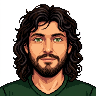
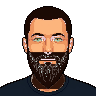
art(ch4,ch5): regenera busts — ch4 pelo corto castaño (iter6), ch5 buzz cut + barba larga (iter18)
Rafael: ch4 pelo más corto; ch5 barba más larga + pelo muy corto, basado en ch3.

ch4 (iter5→iter6): pelo corto castaño oscuro (antes gris/largo = drift; "no el
color de ch2"), barba corta. forge_sprite estilo ch3 + foto 2016, downscale LANCZOS
a 96, flood-fill bg blanco semi-transparente → transparente, de-fringe halo.

ch5 (iter15→iter18): buzz cut denso castaño oscuro + barba larga oscura, navy.
Cadena: iter16 (bg navy opaco, rechazada) → iter17 (gris/calvo, rechazada) →
iter18 (lava+floodfill transparente, pelo oscuro forzado) + post-proceso PIL para
matar artefactos cyan semi-transparentes del flood-fill.

Colores pixel-validados vs ch3: pelo castaño oscuro (#1A0E0A/#1B0A04, cero gris),
piel peach (#F9AA6D/#FCB57D), ojos sage, ch5 ropa navy #151F2D. Ambos transparentes,
render OK en app (StickyAvatar). Versiones previas en old/ + CHANGELOG §6.5. 418/418.

diff --git a/public/assets/old/CHANGELOG.md b/public/assets/old/CHANGELOG.md
@@ -16,6 +16,24 @@ Formato per entry:
 
 ---
 
+## ch5-bust.png — iter17 → iter18 (2026-06-01)
+
+- **Versión guardada:** `old/ch5-bust-2026-06-01-iter17-grey-hair.png`
+- **Razón del cambio:** iter17 salió con pelo gris/plateado, entradas/calvicie, barba sal-y-pimienta (gris en mejillas). Rafael exige pelo castaño MUY OSCURO #251109 denso sin canas, barba oscura sólida sin grises. Transparencia de esquinas superiores funcionó bien con método lava + BFS.
+- **Qué se intentará diferente:** Mismo background:"lava" + BFS flood-fill. Prompt reforzado con "NOT grey, NOT balding, NOT salt-and-pepper, ZERO grey pixels, solid dark brown #251109 hair and beard", referencias ch3-bust.png, énfasis en pelo denso/línea baja/joven.
+- **Commit hash post-regen:** `<pendiente>`
+
+---
+
+## ch5-bust.png — iter16 → iter17 (2026-06-01)
+
+- **Versión guardada:** `old/ch5-bust-2026-06-01-iter16.png`
+- **Razón del cambio:** iter16 (Adobe `image_remove_background` semántico) falló: BL y BR esquinas alpha=255 con color navy — el fondo navy y la camisa navy son indistinguibles para el ML de Adobe. Las 2 esquinas inferiores quedaron opacas (fondo no borrado).
+- **Qué se intentará diferente:** `forge_sprite` con `background: "lava"` (alto contraste rojo/naranja vs navy #141C2A) para que el bg removal nativo de pixelforge separe correctamente la camisa del fondo. Mismo sujeto: buzz cut uniforme, barba más larga, piel #FBB782, pelo/barba #251109, ojos sage #1B2715, camisa navy #141C2A.
+- **Commit hash post-regen:** `<pendiente>`
+
+---
+
 ## ch4-bg.png — iter2 → REPLACED por parallax 4 capas iter3 (2026-06-01)
 
 El bg único full-bleed (iter2) se reemplaza por un parallax de 4 capas "flotando en el vacío" (concepto de Rafael): personaje de espaldas con gafas VR mirando a un portal con mundo 3D, símbolos matrix neón flotantes, profundidad por puntero + drift.
@@ -511,3 +529,21 @@ Aplica colectivamente a los 4 assets parallax originales de ch4 (Plan 04-04 W2).
 - **Razón del cambio:** Rafael 2026-05-28: ch3 ahora es "La muerte de Flash" y debe tener el estilo del fondo de batalla épico de ch2 (Warcraft). iter1 era fantasía pastel clara (cielo aurora + montañas + camino con estandartes) — bonito pero no matchea el tema muerte-de-Flash ni el drama de ch2.
 - **Qué se intentará diferente:** mood "secuela con amanecer HTML5" — campo de batalla DESPUÉS de la guerra: cielo crepuscular humo/brasas que abre a un amanecer HTML5 dorado/cyan en el horizonte; cresta con fortaleza en ruinas humeante; primer plano de tierra quemada con armas/estandartes caídos y escombros. Estilo comic pixel dramático (matchea ch2-flash-war). Emblemas re-tematizados al arco muerte→renacer (Flash caído → reconstrucción → estandarte → orbe → HTML5 naciente). Título "De vuelta al movimiento" → "La muerte de Flash".
 - **Commit hash post-regen:** `9c92672`
+
+## ch4-bust.png — iter5 → iter6 (2026-06-01)
+
+- **Versión guardada:** `old/ch4-bust-2026-06-01-iter5-grey-long.png` (14,439 bytes)
+- **Razón del cambio:** Rafael: "ch4 con pelo más corto". Además el pelo estaba gris/canoso (drift) y largo/desordenado — no matchea la realidad (foto 2016: castaño oscuro corto). Rafael aclaró "no el color de ch2" (ch2 también es gris) → corregir a castaño.
+- **Qué se intentará diferente:** Regenerar con forge_sprite estilo ch3. Pelo CORTO castaño muy oscuro (#251109, sombra #0E0100, SIN gris/canas), barba corta recortada. Colores hard-target de ch3: piel #FBB782, ojos sage #1B2715, ropa navy #141C2A. Referencia multimodal: foto 2016 + ch3-bust.png. Validación pixel-sample vs ch3 obligatoria + HSL zonal si drift.
+- **Commit hash del cambio:** `aaf4b30`
+
+## ch5-bust.png — iter15 → iter16 (2026-06-01)
+
+- **Versión guardada:** `old/ch5-bust-2026-06-01-iter15-green-shirt.png` (14,631 bytes)
+- **Razón del cambio:** Rafael: "ch5 con barba más larga y pelo muy corto, basarse en ch3". Actual tiene pelo largo rizado + camisa verde.
+- **Qué se intentó diferente:** Regenerar con forge_sprite estilo ch3. Pelo MUY CORTO parejo (buzz uniforme, SIN cresta/mohawk), barba MÁS LARGA. Colores hard-target de ch3: pelo #251109/#0E0100, piel #FBB782, ojos sage #1B2715, ropa navy #141C2A.
+- **Cadena de iteraciones (ch5 históricamente difícil):**
+  - iter16 (`old/ch5-bust-2026-06-01-iter16.png`): forge_sprite bg="night" → fondo navy OPACO idéntico a la camisa (0 px transparentes). Rechazada.
+  - iter17 (`old/ch5-bust-2026-06-01-iter17-grey-hair.png`): regen bg="lava" + flood-fill → transparencia OK pero pelo gris/canoso + calvicie (drift). Rechazada.
+  - iter18 (final): regen bg="lava" forzando pelo castaño denso + barba larga oscura. Transparencia OK. Quedaron artefactos cyan semi-transparentes (alpha 15-53) tipo "icicle" en barba/bajo-ojos (restos del flood-fill del lava). **Fix post-proceso (PIL, main session):** densificado de barba + kill de píxeles cyan (b>r+12, b>90) sin importar alpha → castaño en barba / piel en mejilla. Validado pixel-sample vs ch3 (pelo #1B0A04, piel #FCB57D, barba #1C0A05, ojos sage, ropa navy #151F2D) + render en app (avatar OK).
+- **Commit hash del cambio:** `aaf4b30`
